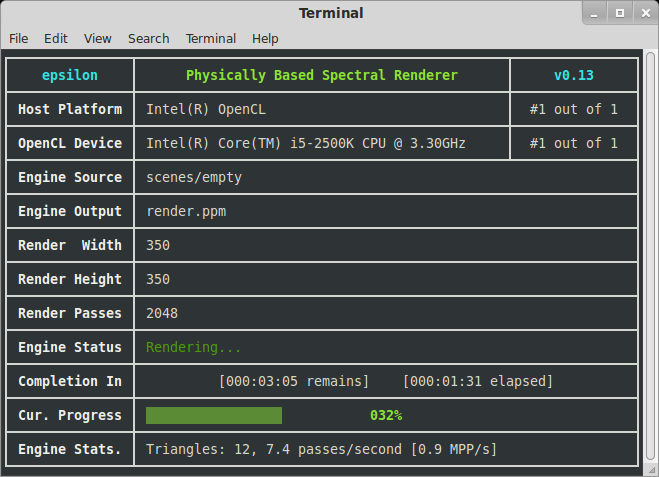
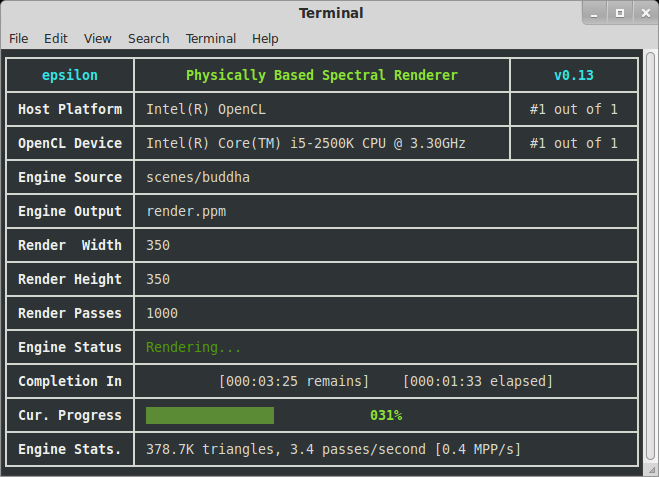
Better screenshot.

diff --git a/src/interface/interface.cpp b/src/interface/interface.cpp
@@ -307,6 +307,20 @@ void Interface::DisplayTime(double remains, double elapsed)
     }
 }
 
+/* Formats triangle count with suffixes. */
+std::string FormatTriangles(uint32_t triangles)
+{
+    std::stringstream stream;
+    stream << std::fixed;
+    stream.precision(1);
+    
+    if      (triangles >= 1e6) stream << triangles / 1.0e6 << "M";
+    else if (triangles >= 1e3) stream << triangles / 1.0e3 << "K";
+    else stream << triangles;
+
+    return stream.str();
+}
+
 void Interface::GiveStatistics(Statistics statistics)
 {
     DisplayProgress(statistics.progress);
@@ -315,7 +329,7 @@ void Interface::GiveStatistics(Statistics statistics)
     if (statistics.progress == 1.0) statistics.remains = 0.0;
 
     std::stringstream ss;
-    ss << "Triangles: " << statistics.tris << ", ";
+    ss << FormatTriangles(statistics.tris) << " triangles, ";
 
     /* Is there enough data? */
     if (statistics.elapsed < 1)
